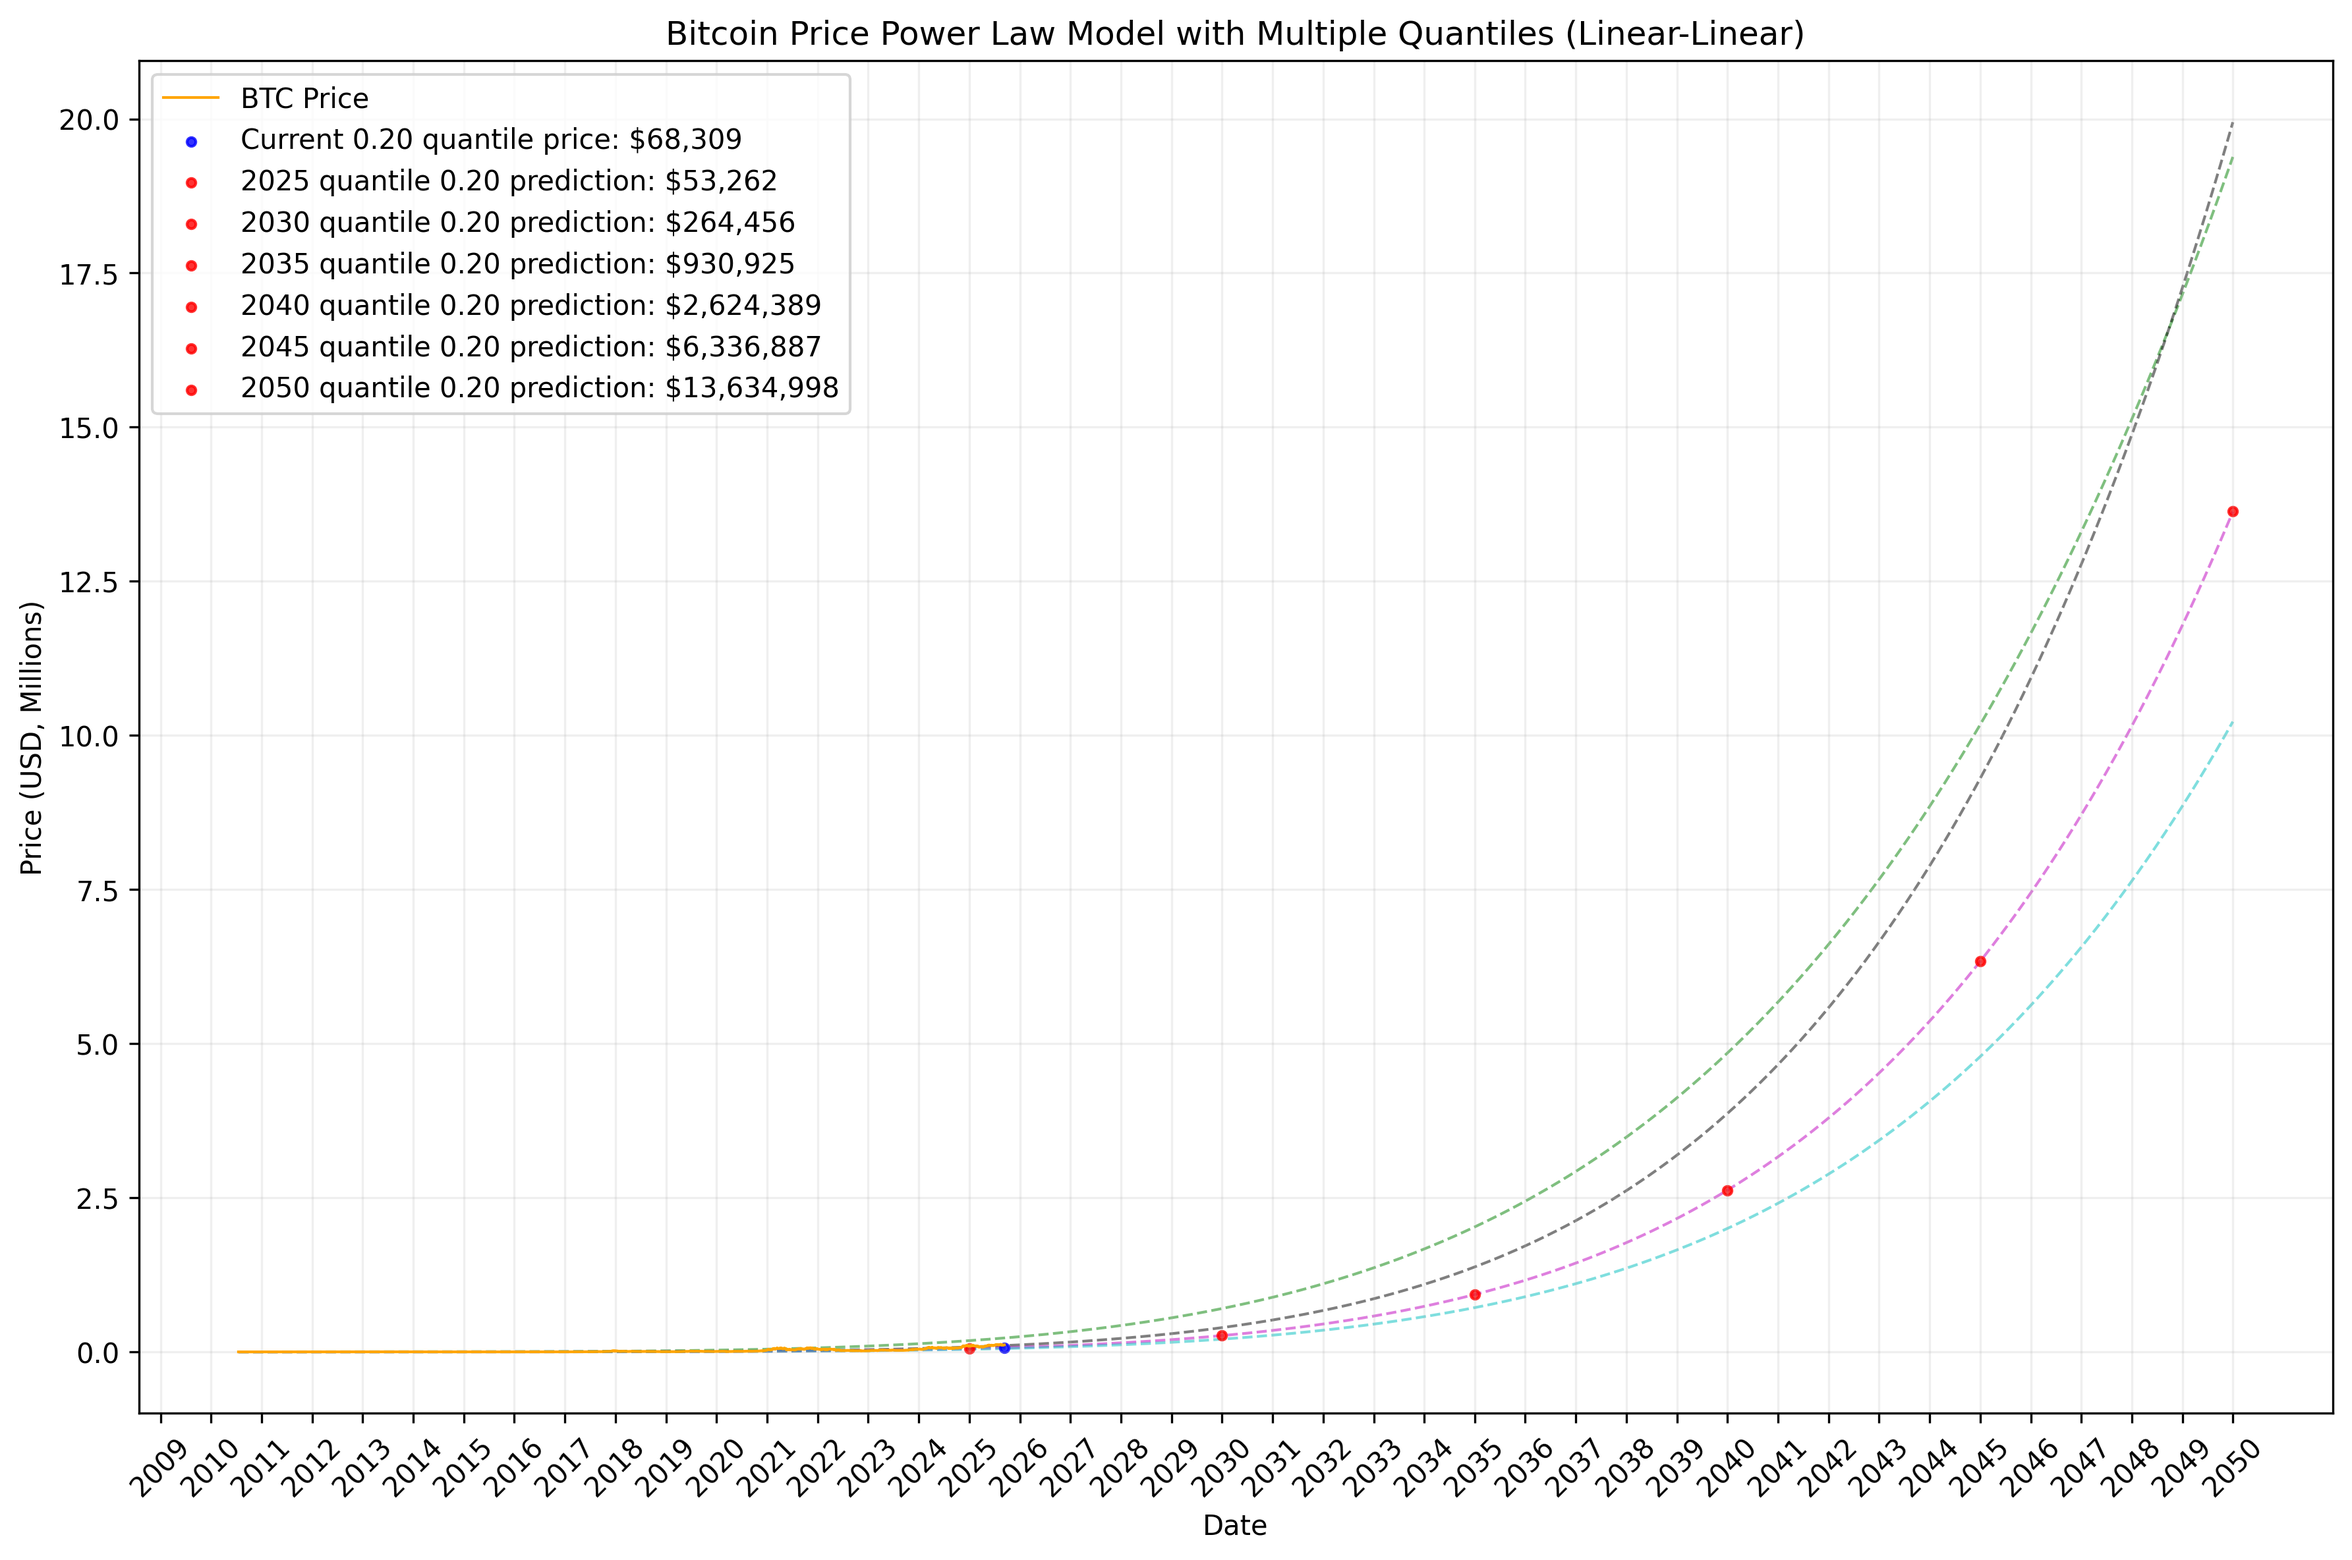
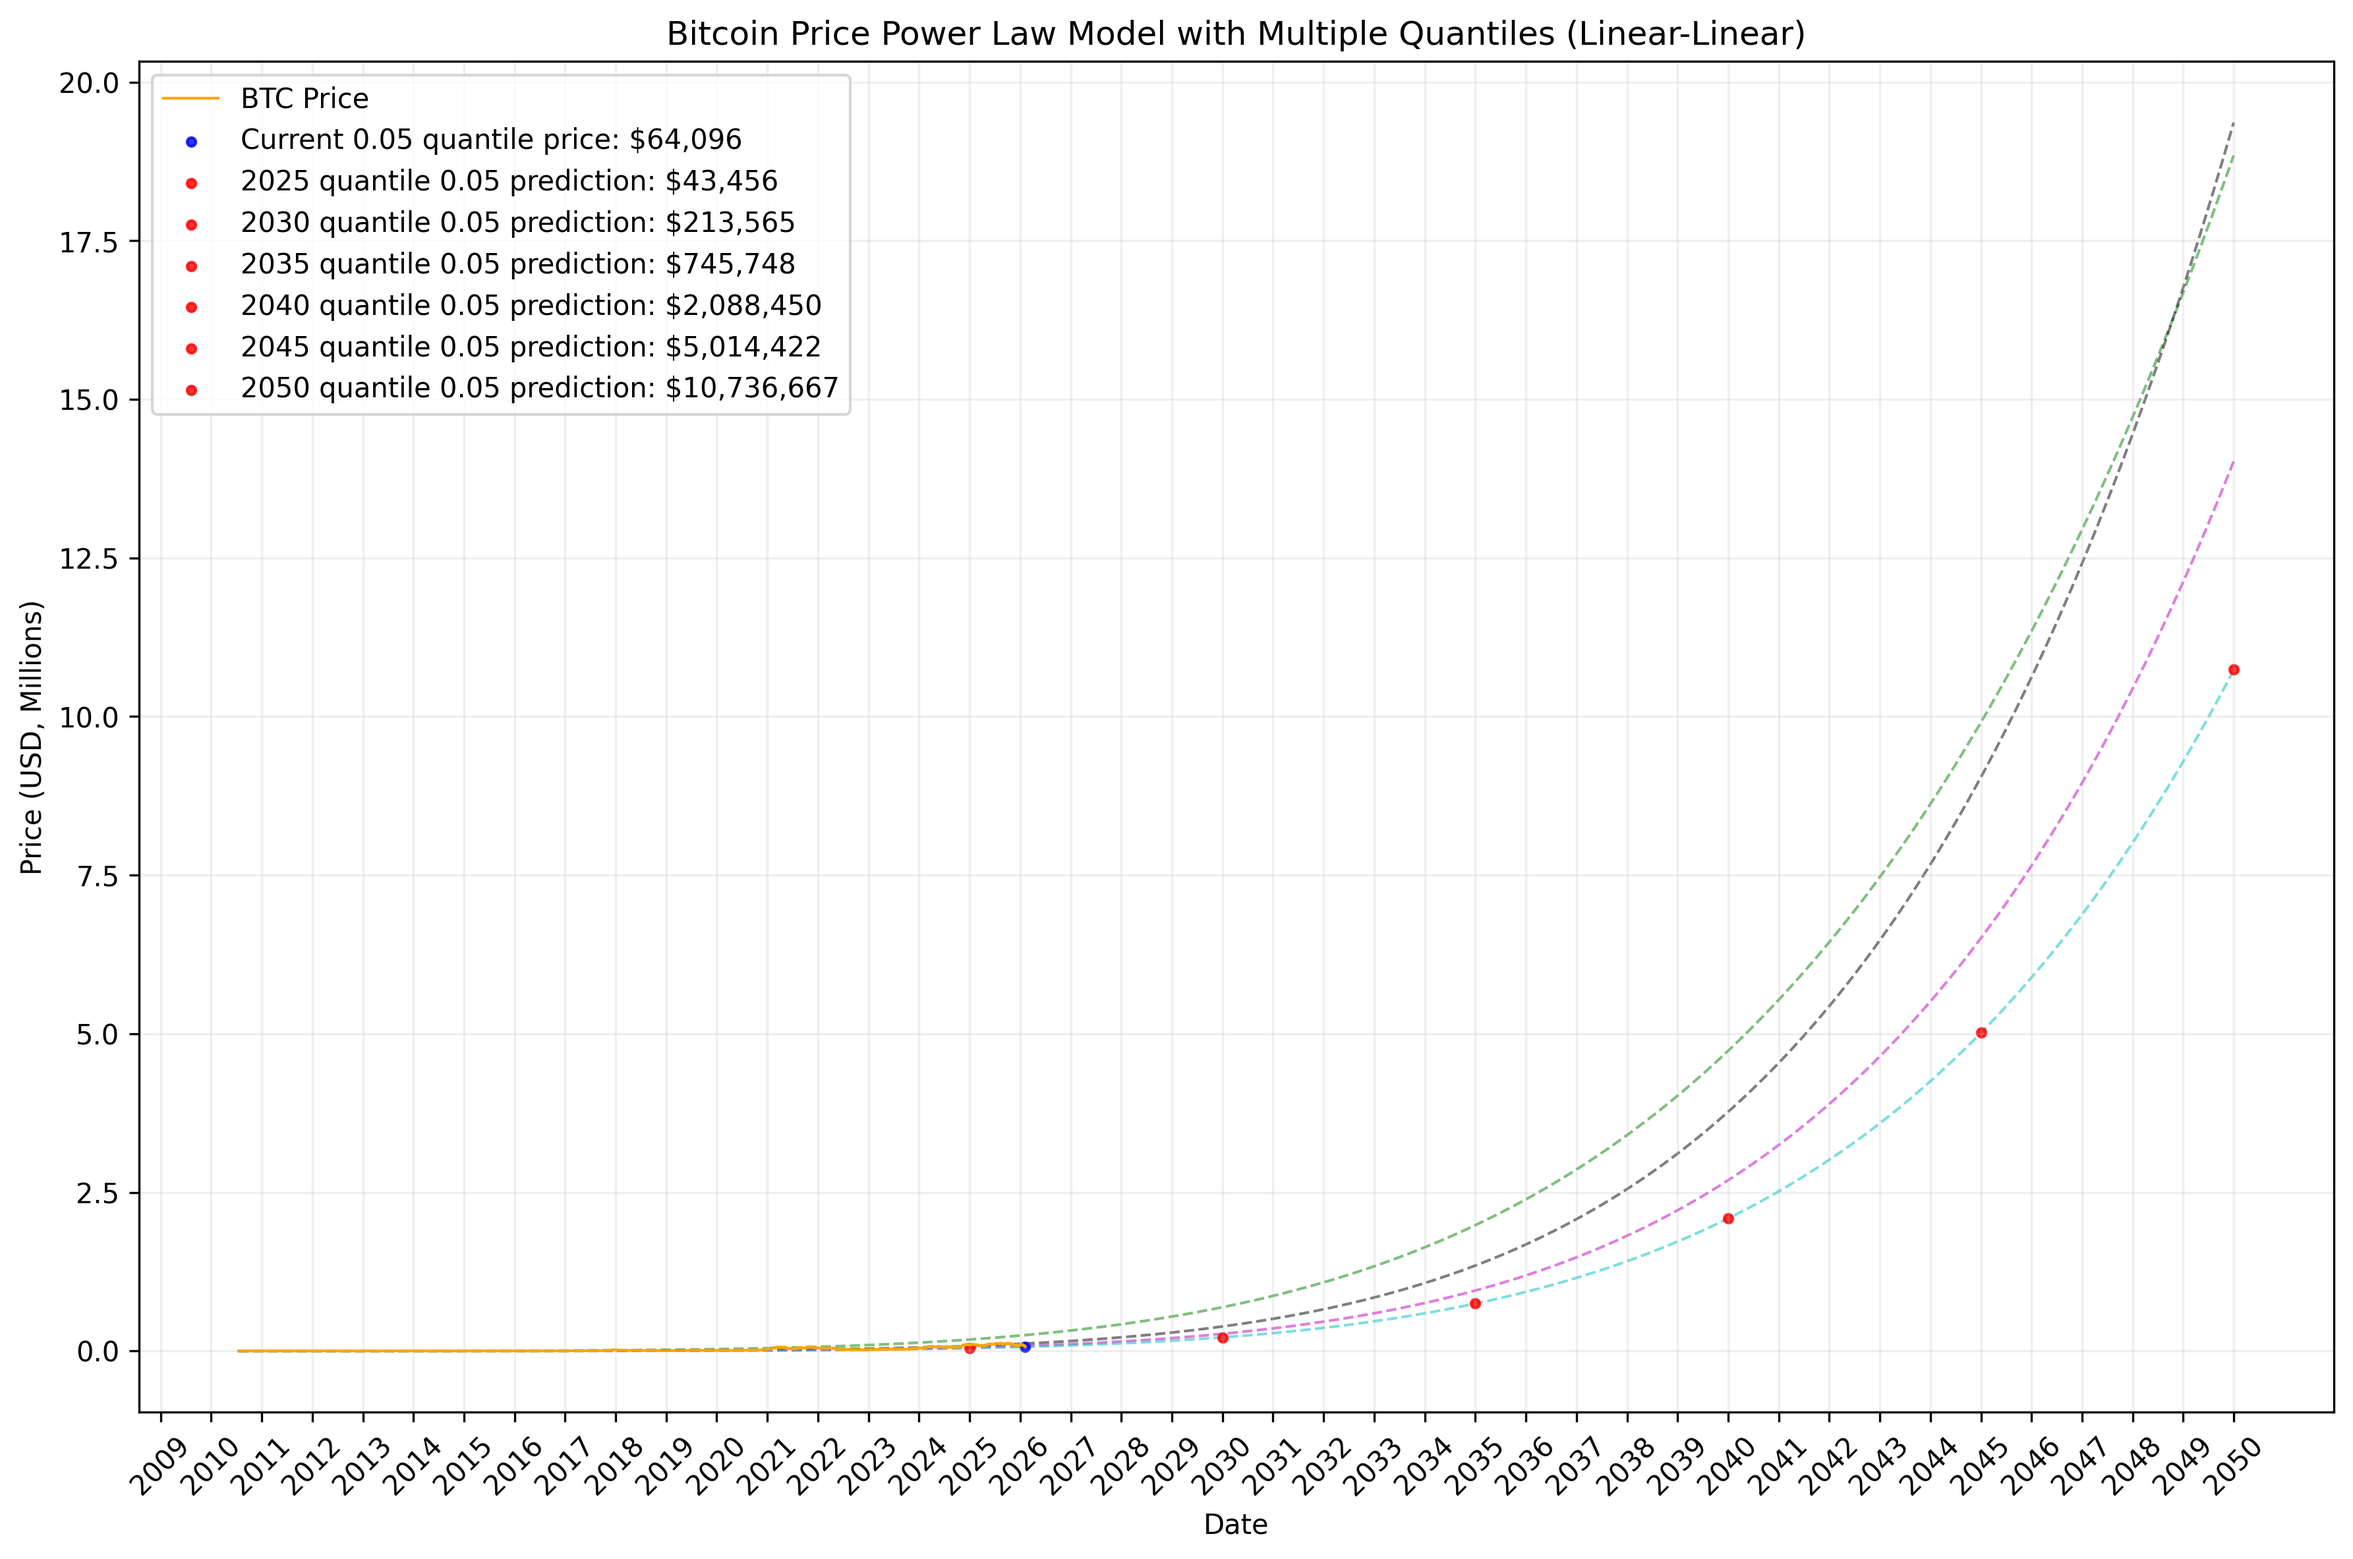
Update report

diff --git a/README.md b/README.md
@@ -12,22 +12,28 @@
 ## Log-Log Power Law Model
 ![Log-Log Power Law Model](images/log_log_history_only.png)
 
-## Log-Log Power Law Model Future
+## Log-Log Power Law Model Future Extrapolation
 ![Log-Log Power Law Model](images/log_log.png)
 
 ## Linear-Log Scale Model
 ![Linear-Log Scale Model](images/linear_log.png)
 
-## Limited Range Analysis
+## Zooming in on Today
 ![Limited Range Analysis](images/limited_range.png)
 
 ## Linear-Linear Scale Model
 ![Linear-Linear Scale Model](images/linear_linear.png)
 
 ## Quantile Ratio Analysis
+
+Is the price over time converging toward the power law line?
+
 ![Quantile Ratio Analysis](images/quantile_ratio.png)
 
 ## Years Ahead of Conservative Estimate
+
+For each price (colored lines) we can estimate how many years until that price will be the trend price.
+
 ![Years Ahead Analysis](images/years_ahead.png)
 
 ## Raw ROI Analysis
